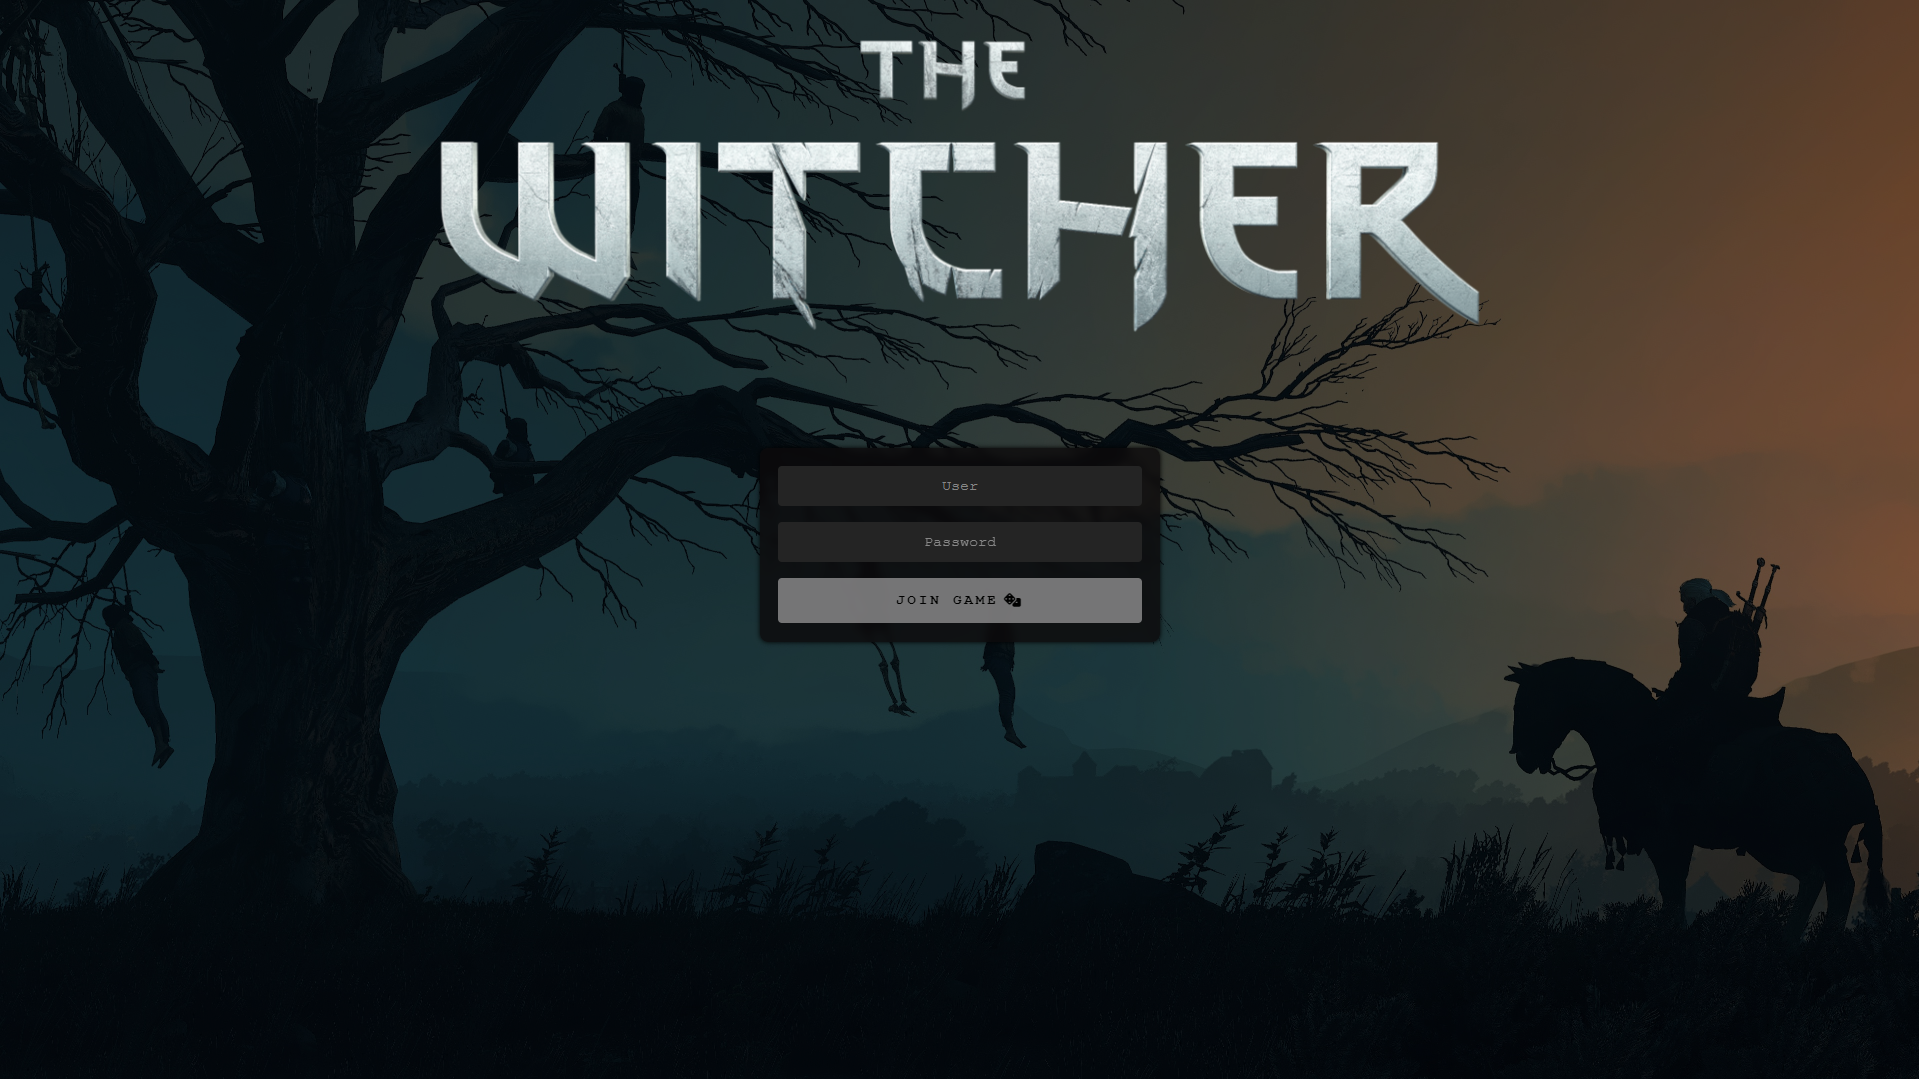
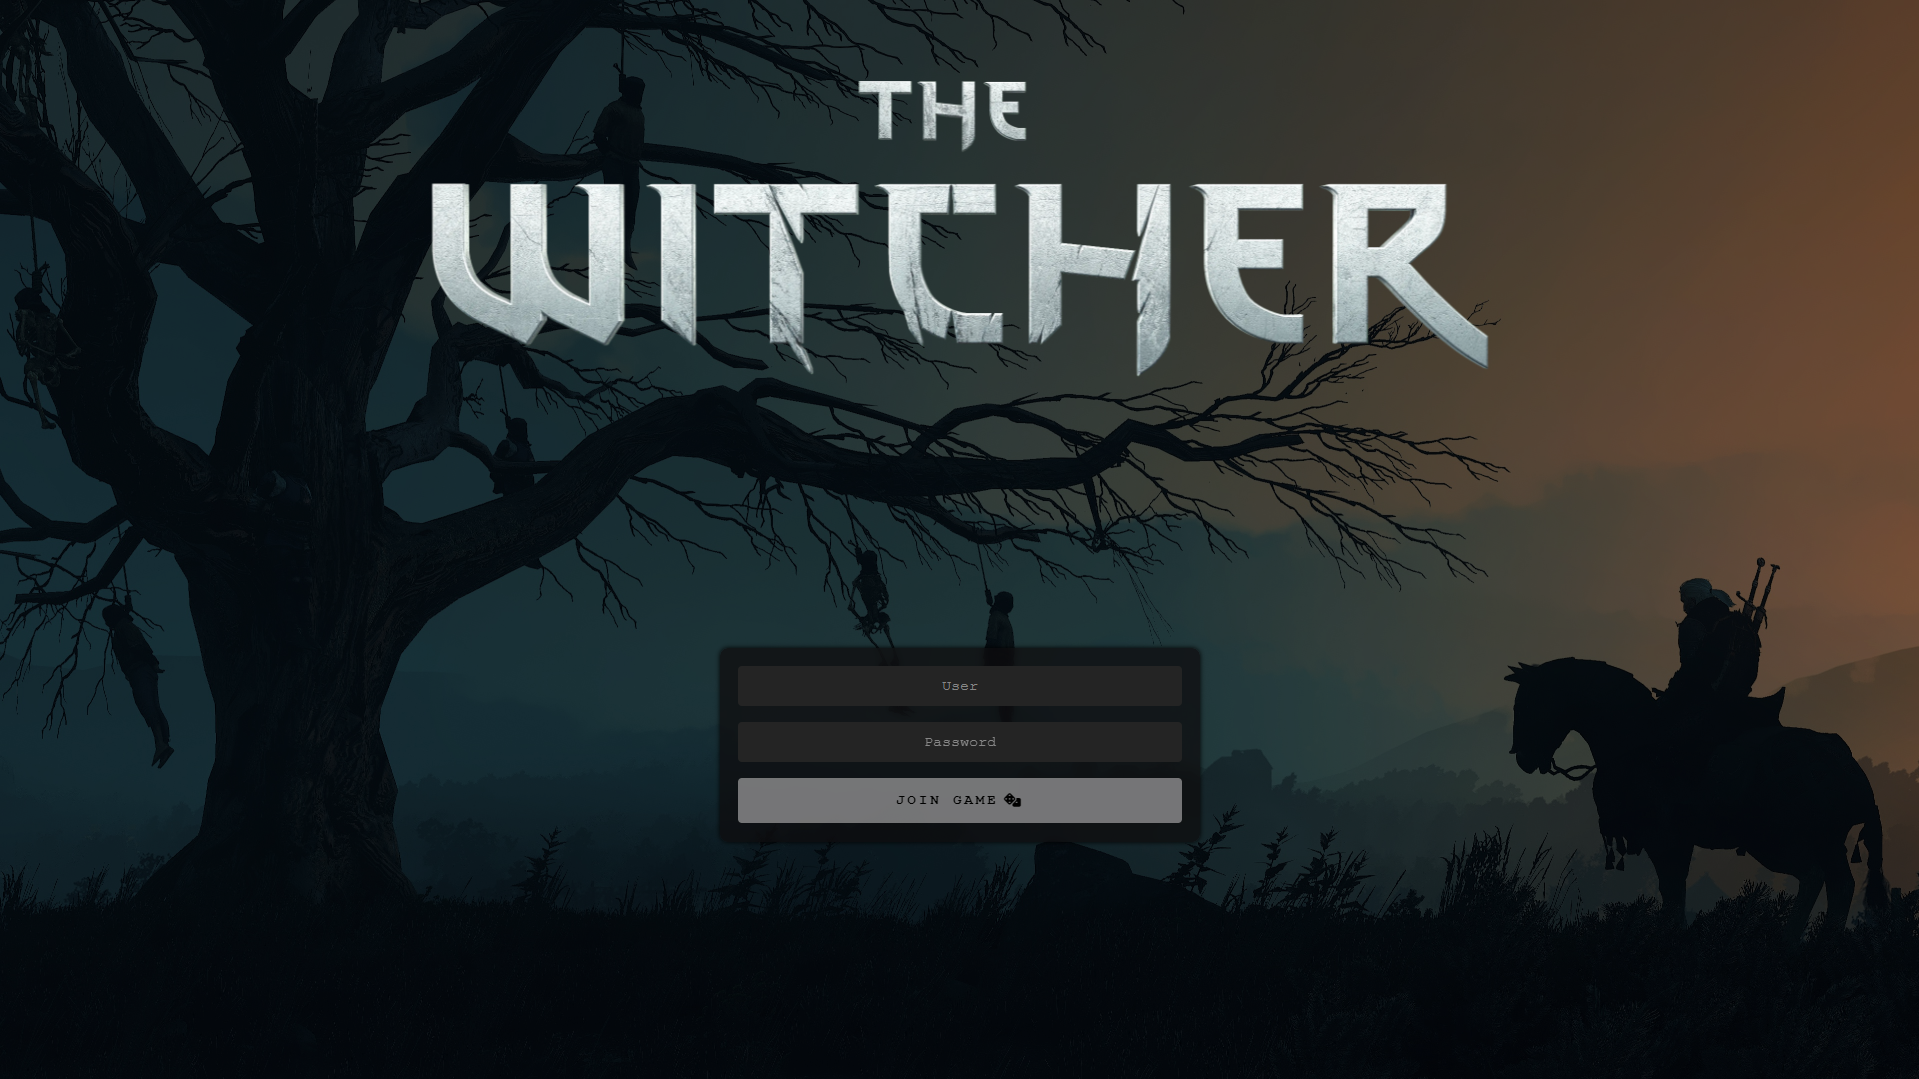
reworked the-witcher

Changed region(s): [[0.2152, 0.0306, 0.7994, 0.3364], [0.3689, 0.3976, 0.6456, 0.7646]]

diff --git a/the-witcher/foundry2.css b/the-witcher/foundry2.css
@@ -1,61 +1,77 @@
 /*
 FoundryVTT Login Pages made by Doluprane
 Kind of a fork from github.com/dandln
-based on code by u/bass-blowfish
+Based on code by u/bass-blowfish
 
 Currently working in v11
+Will be tested in v12 asap
 */
 
 /* CONFIGURATION AREA */
 body.auth, #watermark {
-  --login-world-logo: url("/the-witcher-logo.png");
[1 lines of base64/hex data omitted]
-  --login-footer-logo-height: 25px;
-  --login-button-color: rgba(143, 143, 143, 0.8);
-  --login-button-color-hover: rgba(143, 143, 143, 1.0);
-  --login-button-text-color: black;
-  --login-show-text-title: none;
-  --login-app-background-color: rgba(11, 9, 10, 0.8);
-  --login-input-text-background-color: rgba(36, 36, 36, 1.0);
-  --login-input-text-color: white;
-  --login-input-text-color-placeholder: rgba(135, 135, 135, 1.0);
-  --font: Trixie,'Courier New',Courier,monospace;
+  --login-world-logo:url("/the-witcher-logo.webp");
+  --login-button-color:rgba(143, 143, 143, 0.8);
+  --login-button-color-hover:rgba(143, 143, 143, 1.0);
+  --login-button-text-color:black;
+  --login-app-background-color:rgba(11, 9, 10, 0.8);
+  --login-input-text-background-color:rgba(36, 36, 36, 1.0);
+  --login-input-text-color:white;
+  --login-input-text-color-placeholder:rgba(135, 135, 135, 1.0);
+  --font:Trixie,'Courier New',Courier,monospace
 }
 
-body.auth .app {
+/* FORM */
+body.auth .custom-app {
+  padding:1.15rem;
   box-shadow:0 0 5px black;
-  background:var(--login-app-background-color)
+  background:var(--login-app-background-color);
+  width:25%;
+  position:fixed!important;
+  top:60%;
+  left:50%;
+  transform:translate(-50%, -50%);
+  flex:none;
+  gap:1rem;
+  max-width: var(--maxWidth);
+  max-height: 100%;
+  display: flex;
+  flex-direction: column;
+  flex-wrap: nowrap;
+  justify-content: flex-start;
+  backdrop-filter: blur(4px);
+  border-radius: 8px;
+  z-index: var(--z-index-app);
+  transform-origin: top left;
+  -webkit-animation: slide-in-bck-bottom 1.5s cubic-bezier(0.250, 0.460, 0.450, 0.940) both;
+  animation: slide-in-bck-bottom 1.5s cubic-bezier(0.250, 0.460, 0.450, 0.940) both
 }
-  
-body.auth #main-header {
+
+/* BACKGROUND */
+body.background {
+  -webkit-animation: fade-in 2s cubic-bezier(0.390, 0.575, 0.565, 1.000) both;
+  animation: fade-in 2s cubic-bezier(0.390, 0.575, 0.565, 1.000) both
+}
+
+/* CUSTOM HEADER WITH WORLD LOGO */
+body.auth #custom-header {
   background:var(--login-world-logo);
   background-repeat:no-repeat;
   background-size:55%;
-  background-position:center;
+  background-position-x:center;
   height:120px!important;
   border:none;
-  box-shadow:none
-}
-  
-body.auth #watermark::before {
-  display:block;
-  content:" ";
-  background:var(--login-footer-logo);
-  background-size:contain;
-  background-repeat:no-repeat;
-  background-position:center;
-  width:var(--maxWidth);
-  height:var(--login-footer-logo-height);
-  margin-top:calc(calc(var(--login-footer-logo-height) * -1) + 25px);
-  margin-bottom:5px
+  box-shadow:none;
+  position:fixed;  
+  top:7.5%; 
+  left:0;
+  width:100%;
+  height:35vh!important;
+  -webkit-animation: slide-in-bck-top 1.5s cubic-bezier(0.250, 0.460, 0.450, 0.940) both;
+  animation: slide-in-bck-top 1.5s cubic-bezier(0.250, 0.460, 0.450, 0.940) both;
 }
   
 body.join #join-game {
   grid-template-columns:1fr!important
-}
-  
-body.auth #main-header h1 {
-  display:var(--login-show-text-title)
 }
   
 #join-game {
@@ -146,11 +162,6 @@ body.auth #main-header h1 {
   font-family:'FontAwesome'
 }
   
-body.auth .app:not(.window-app) {
-  padding:1.15rem;
-  margin-top:4.5rem
-}
-  
 #join-game select:required:invalid {
   color:var(--login-input-text-color-placeholder)!important
 }
@@ -162,10 +173,82 @@ body.auth .app:not(.window-app) {
   text-align-last:center
 }
   
-body.auth label.icon, #join-game-world, #join-game-details, #join-game .divider, #join-game .return-setup, #join-game button[name="join"] i.fas.fa-check, #join-game button[name="shutdown"] .fas.fa-lock, #join-game select option:checked {
-  display:none
-}
-  
 #join-game input::placeholder, #join-game select option:disabled {
   color:var(--login-input-text-color-placeholder)
+}
+
+body.auth #main-header h1, body.auth label.icon, #join-game-world, #join-game-details, #join-game .divider, #join-game .return-setup, #join-game button[name="join"] i.fas.fa-check, #join-game button[name="shutdown"] .fas.fa-lock, #join-game select option:checked {
+  display:none
+}
+
+/* CSS ANIMATIONS */
+
+/* USED BY LOG IN FORM */
+@-webkit-keyframes slide-in-bck-bottom {
+  0% {
+    -webkit-transform:  translate(-50%, 500px);
+            transform:  translate(-50%, 500px);
+    opacity: 0;
+  }
+  100% {
+    -webkit-transform:  translate(-50%, 0);
+            transform:  translate(-50%, 0);
+    opacity: 1;
+  }
+}
+@keyframes slide-in-bck-bottom {
+  0% {
+    -webkit-transform:  translate(-50%, 500px);
+            transform:  translate(-50%, 500px);
+    opacity: 0;
+  }
+  100% {
+    -webkit-transform:  translate(-50%, 0);
+            transform:  translate(-50%, 0);
+    opacity: 1;
+  }
+}
+
+/* USER BY WALLPAPER / BACKGROUND */
+@-webkit-keyframes fade-in {
+  0% {
+    opacity: 0;
+  }
+  100% {
+    opacity: 1;
+  }
+}
+@keyframes fade-in {
+  0% {
+    opacity: 0;
+  }
+  100% {
+    opacity: 1;
+  }
+}
+
+/* USED BY HEADER */
+@-webkit-keyframes slide-in-bck-top {
+  0% {
+    -webkit-transform: translateZ(700px) translateY(-300px);
+            transform: translateZ(700px) translateY(-300px);
+    opacity: 0;
+  }
+  100% {
+    -webkit-transform: translateZ(0) translateY(0);
+            transform: translateZ(0) translateY(0);
+    opacity: 1;
+  }
+}
+@keyframes slide-in-bck-top {
+  0% {
+    -webkit-transform: translateZ(700px) translateY(-300px);
+            transform: translateZ(700px) translateY(-300px);
+    opacity: 0;
+  }
+  100% {
+    -webkit-transform: translateZ(0) translateY(0);
+            transform: translateZ(0) translateY(0);
+    opacity: 1;
+  }
 }

diff --git a/README.md b/README.md
@@ -18,3 +18,5 @@
 * The Witcher
     * Background is taken from [Wallhere](https://wallhere.com/en/wallpaper/1931009/) from [CelenaHehr](https://wallhere.com/en/user/3600649/).
     * Logo is taken from [CD Projekt RED](https://www.cdprojektred.com/) ([Website](https://www.thewitcher.com/)).
+
+Minimal resolution: 870*500px
